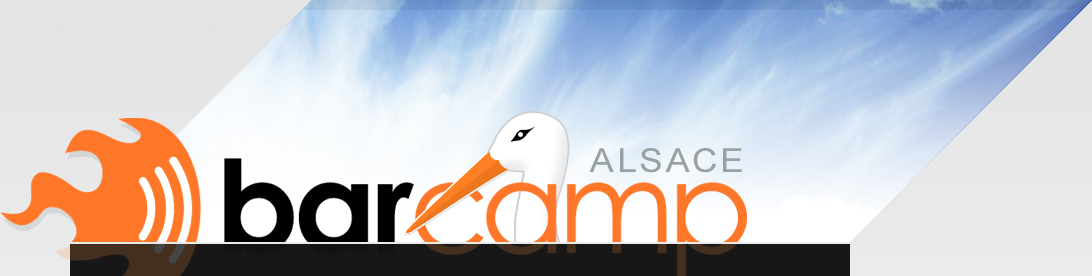
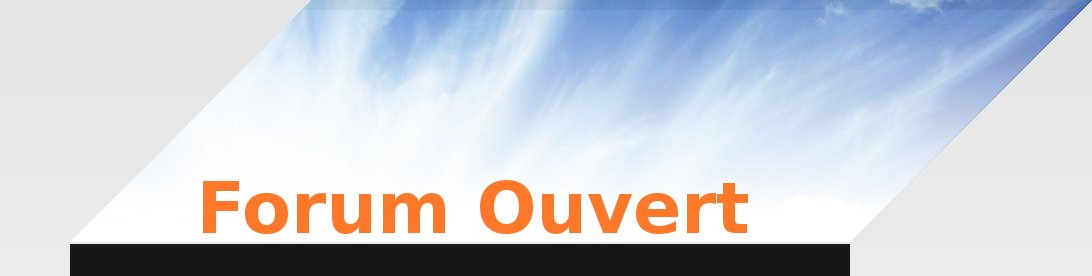
Forum ouvert customization

Changed region(s): [[0.0, 0.4058, 0.685, 1.0], [0.9963, 0.0, 1.0, 0.029]]

diff --git a/public/stylesheets/layout.css b/public/stylesheets/layout.css
@@ -181,7 +181,7 @@ body {
     color: #ccc; }
 
 #Content h1 {
-  font-size: 18px;
+  font-size: 30px;
   padding-bottom: 15px; }
 #Content h2 {
   font-size: 14px;

diff --git a/config/deploy/forum_ouvert.rb b/config/deploy/forum_ouvert.rb
@@ -1,0 +1,2 @@
+set :application, "forum_ouvert"
+set :branch, "forum_ouvert"

diff --git a/config/deploy/barcampalsace6.rb b/config/deploy/barcampalsace6.rb
@@ -1,0 +1,3 @@
+set :application, "barcampalsace6"
+set :branch, "master"
+
